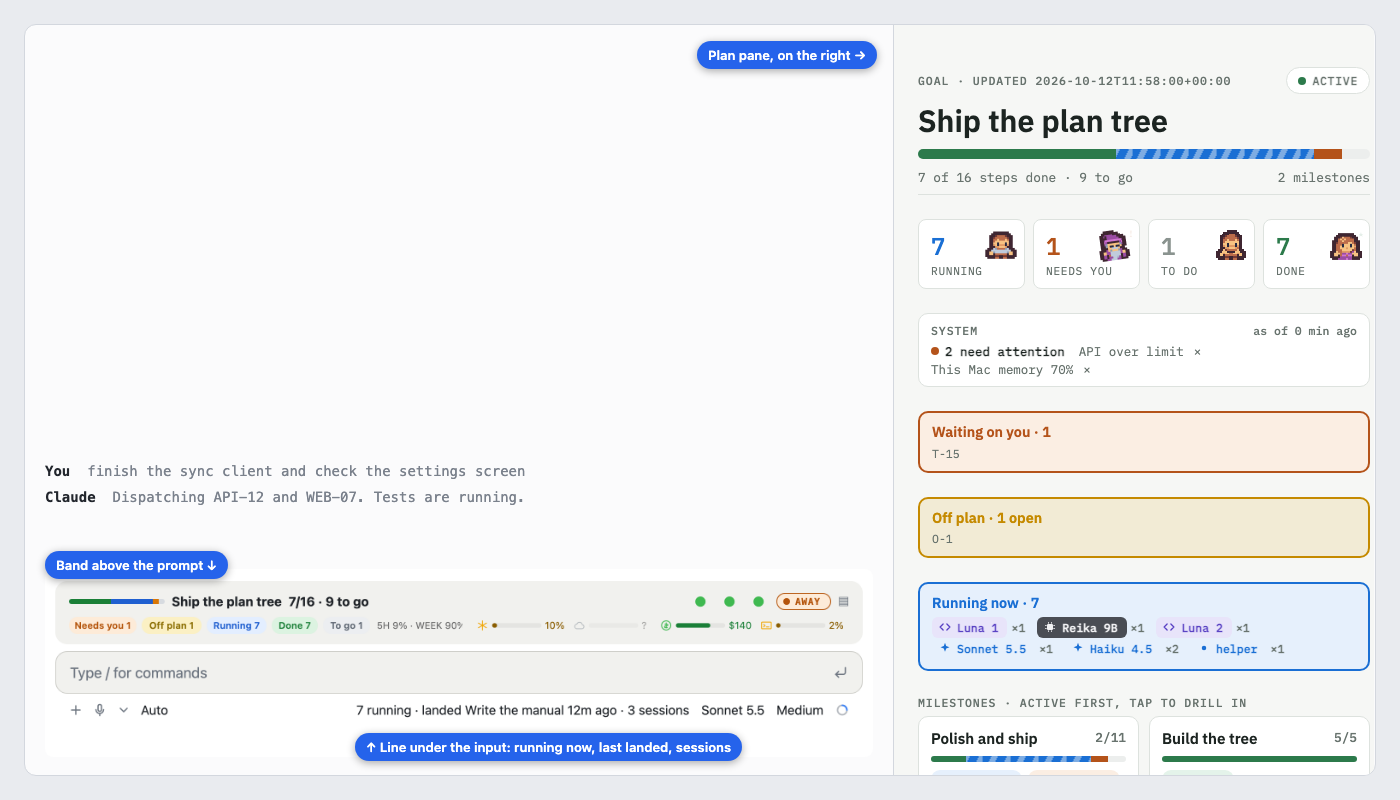
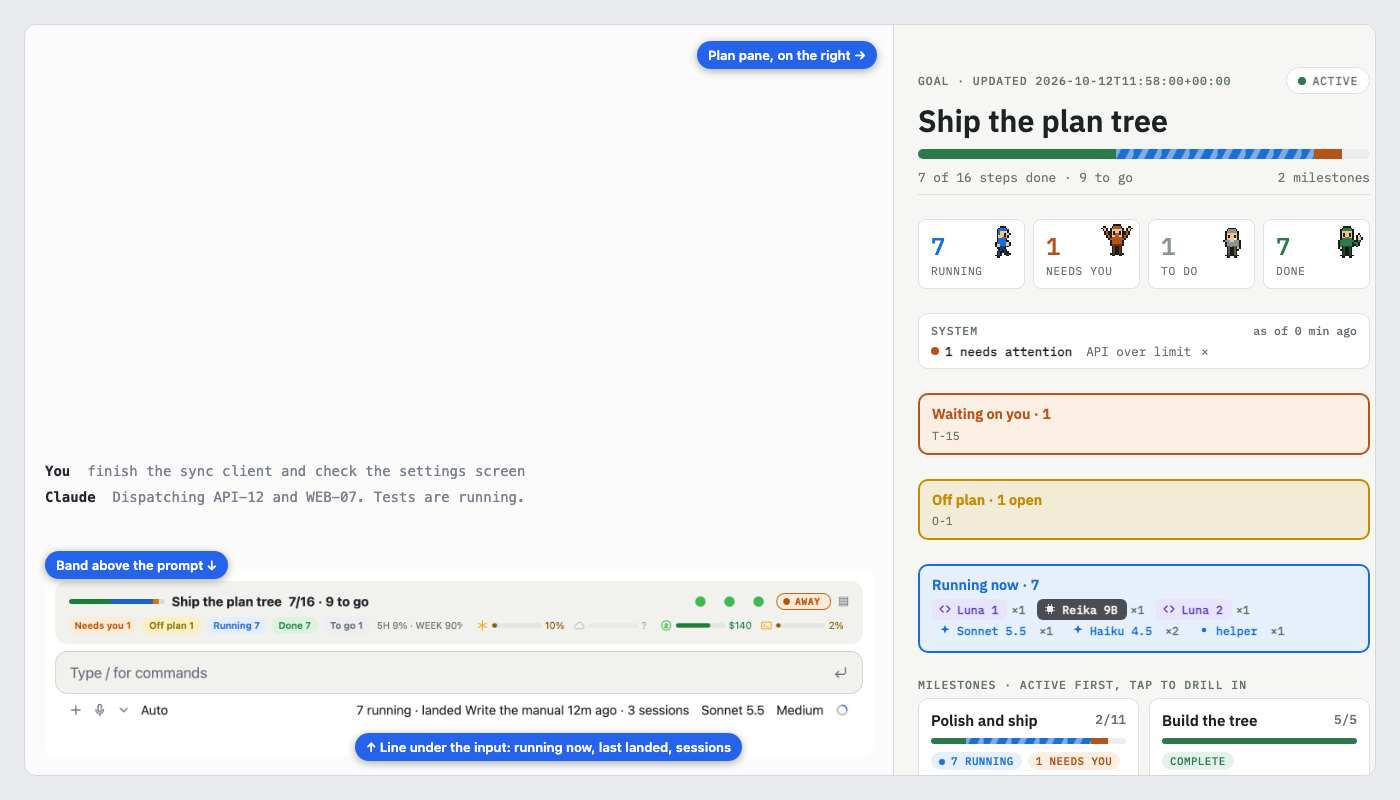
Docs, contact sheet, GIFs and screenshots for frame-animated characters (0.26.68)

diff --git a/tools/charsheet.ts b/tools/charsheet.ts
@@ -1,0 +1,43 @@
+// A contact sheet of every frame of every character animation, and two short GIFs:  bun tools/charsheet.ts
+// Writes docs/img/characters-sheet-{dark,light}.png and docs/img/characters-{run,dance}.gif (headless Chrome and ffmpeg; no window opens).
+import { mkdirSync, mkdtempSync, rmSync, writeFileSync } from 'node:fs'
+import { tmpdir } from 'node:os'
+import { join, resolve } from 'node:path'
+import { createRequire } from 'node:module'
+
+const ROOT = resolve(import.meta.dir, '..')
+const OUT = join(ROOT, 'docs/img')
+const CHROME = '/Applications/Google Chrome.app/Contents/MacOS/Google Chrome'
+const C = createRequire(import.meta.url)('../assets/characters.js')
+const COLOUR: Record<string, string> = { asleep: 'todo', running: 'run', you: 'blk', todo: 'todo', done: 'done', dance: 'run' }
+const THEMES = {
+  dark: '--bg:#121816;--panel:#1a2220;--fg:#e6ece8;--mute:#93a09a;--run:#6aa8f5;--blk:#f0a066;--done:#5fc28a;--todo:#8f9a95;--cout:#050807',
+  light: '--bg:#f6f7f5;--panel:#fff;--fg:#1c2421;--mute:#68736e;--run:#1a6fd4;--blk:#b4531a;--done:#2c7a4b;--todo:#8a938f;--cout:#161c1a',
+}
+const css = (theme: keyof typeof THEMES, px: number): string => `<style>:root{${THEMES[theme]}}body{margin:0;padding:10px;background:var(--bg);color:var(--fg);font:11px monospace}
+.chr{display:inline-block;width:${px}px;height:${px}px;margin:2px;--cb:var(--c)}.chr svg{width:100%;height:100%;display:block}
+.o{fill:var(--cout)}.b{fill:var(--cb)}.d{fill:color-mix(in srgb,var(--cb) 62%,#000)}.s{fill:#f3c38f}.e{fill:#1b1f22}.m{fill:#b4533f}.k{fill:#2c3036}.w{fill:#fff}.y{fill:#f2c230}.z{fill:var(--mute)}.x{fill:var(--mute);opacity:.6}
+.row{display:flex;align-items:center;border-bottom:1px solid var(--mute);padding:3px 0}.row b{width:120px;flex:none}</style>`
+const fig = (rows: string[], group: string, px = 60): string => `<span class="chr" style="--c:var(--${COLOUR[group]})"><svg viewBox="0 0 20 20" shape-rendering="crispEdges">${C.frameRects(rows)}</svg></span>`
+
+const dir = mkdtempSync(join(tmpdir(), 'charsheet-'))
+mkdirSync(OUT, { recursive: true })
+const shot = (html: string, png: string, w: number, h: number): void => {
+  const f = join(dir, 'p.html')
+  writeFileSync(f, html)
+  Bun.spawnSync([CHROME, '--headless=new', '--disable-gpu', '--hide-scrollbars', '--force-device-scale-factor=1', `--window-size=${w},${h}`, '--virtual-time-budget=500', `--screenshot=${png}`, 'file://' + f], { stdout: 'ignore', stderr: 'ignore' })
+}
+for (const theme of ['dark', 'light'] as const) {
+  const rows = Object.entries(C.CHAR_FR as Record<string, Record<string, { frames: string[][] }>>).flatMap(([g, set]) => Object.entries(set).map(([n, a]) => `<div class="row"><b>${n}<br>${a.frames.length} frames</b>${a.frames.map(f => fig(f, g)).join('')}</div>`))
+  shot(`<!doctype html><meta charset=utf-8>${css(theme, 56)}${rows.join('')}`, join(OUT, `characters-sheet-${theme}.png`), 760, 40 + rows.length * 70)
+}
+// Two GIFs on the dark page: the run cycle and the disco dance, 3 loops of the drawn frames at their own frame rate, 6x.
+const gif = (group: string, anim: string, name: string): void => {
+  const a = C.CHAR_FR[group][anim]
+  a.frames.forEach((f: string[], i: number) => shot(`<!doctype html><meta charset=utf-8>${css('dark', 160)}${fig(f, group)}`, join(dir, `${name}-${String(i).padStart(2, '0')}.png`), 190, 190))
+  const g = Bun.spawnSync(['ffmpeg', '-y', '-loglevel', 'error', '-framerate', String(a.fps), '-i', join(dir, `${name}-%02d.png`), '-vf', 'split[a][b];[a]palettegen=max_colors=32[p];[b][p]paletteuse=dither=none', '-loop', '0', join(OUT, `characters-${name}.gif`)])
+  console.log(g.exitCode === 0 ? `wrote docs/img/characters-${name}.gif (${a.frames.length} frames)` : 'ffmpeg failed for ' + name)
+}
+gif('running', 'running-cycle', 'run')
+gif('dance', 'dance-disco', 'dance')
+rmSync(dir, { recursive: true, force: true })

diff --git a/docs/FEATURES.md b/docs/FEATURES.md
@@ -55,13 +55,14 @@ The in-terminal pane has the same actions on each row: a check (mark done), an X
   </picture>
   <picture>
     <source media="(prefers-color-scheme: light)" srcset="img/page-done-light.png">
-    <img src="img/page-done-dark.png" alt="A finished plan: three characters dance above the progress bar" width="300">
+    <img src="img/page-done-dark.png" alt="A finished plan: three characters dance (5 routines of 8 frames each) above the progress bar" width="300">
   </picture>
 </p>
 
-- **Tile characters.** Each of the four tiles (Running, Needs you, To do, Done) has a small pixel character, drawn from the same Kenney Tiny Dungeon cast as the Agents panel. A count of 0 puts it to sleep (eyes closed, a drifting z). A count above 0 wakes it: Running runs, Needs you bounces and waves, To do paces, Done cheers. The pose comes from the same count the tile shows.
-- **Never one loop.** Each state has several animations (2 asleep, 3 for each active tile, 5 dances). A small timer in the page swaps to another one at random, never the same twice in a row, after a hold of 2.5 to 6 seconds with a short rest pose between. With `prefers-reduced-motion` the characters stay still. A fixed seed (`window.CHR_SEED`) makes the sequence repeatable; the screenshot scripts use one.
-- **Dancing when done.** When every step is done, three characters dance above the progress bar. They go away when a new step opens.
+- **Tile characters.** Each of the four tiles (Running, Needs you, To do, Done) has one small custom pixel character, drawn by us on a 20x20 grid (no outside art). A count of 0 puts it to sleep (curled up, a drifting z); a count above 0 wakes it. The pose comes from the same count the tile shows. Each tile recolors the same figure through a CSS variable: blue, orange, grey, green.
+- **Real frame-by-frame animation.** Every animation is a list of 20x20 string-art frames in `assets/characters-frames.js` (generated by `bun tools/charart.ts`), drawn as crisp SVG rects, played by a frame player at 6 to 10 fps. Asleep has 2 (curl, nod), Running 3 (run cycle, sprint with dust, jog), Needs you 3 (wave, jump, point), To do 3 (shuffle, look around, check watch), Done 3 (fist pump, thumbs up, spin). `bun tools/charsheet.ts` draws a contact sheet of every frame (`docs/img/characters-sheet-*.png`) and two sample GIFs.
+- **Never one loop.** A small timer in the page swaps to another animation at random, never the same twice in a row, after a hold of 2.5 to 6 seconds. With `prefers-reduced-motion` the characters stay on one still frame. A fixed seed (`window.CHR_SEED`) makes the sequence repeatable; the screenshot scripts use one.
+- **Dancing when done.** When every step is done, three characters dance (5 routines of 8 frames each) above the progress bar. They go away when a new step opens.
 - **Fixed goal card.** The goal card (title, bar, count) stays at the top of the page while everything else scrolls under it.
 
 ## The full side pane

diff --git a/docs/CHANGELOG.md b/docs/CHANGELOG.md
@@ -1,5 +1,10 @@
 # Changelog
 
+## 0.26.68
+
+- The tile and dancer characters are now real frame-by-frame animation of one custom 20x20 pixel character drawn in this repo, replacing the moved Kenney sprites (the Agents panel keeps its own). Frames live in `assets/characters-frames.js`, generated by `tools/charart.ts`, and a frame player steps them at 6 to 10 fps. Asleep 2 animations, each active tile 3, the done dance 5 routines of 8 frames.
+- New `tools/charsheet.ts` renders a contact sheet of every frame and two sample GIFs. Tests check every animation exists for every state, has 2 or more same-size frames, never repeats the previous frame, and that the player advances on a fake clock.
+
 ## 0.26.67
 
 - The plan page tiles each have a small animated character: asleep at 0, awake above 0 (Running runs, Needs you bounces and waves, To do paces, Done cheers). Every state has several animations picked at random (never the same twice in a row, held 2.5 to 6 seconds), still under reduced motion, repeatable with a seed.
